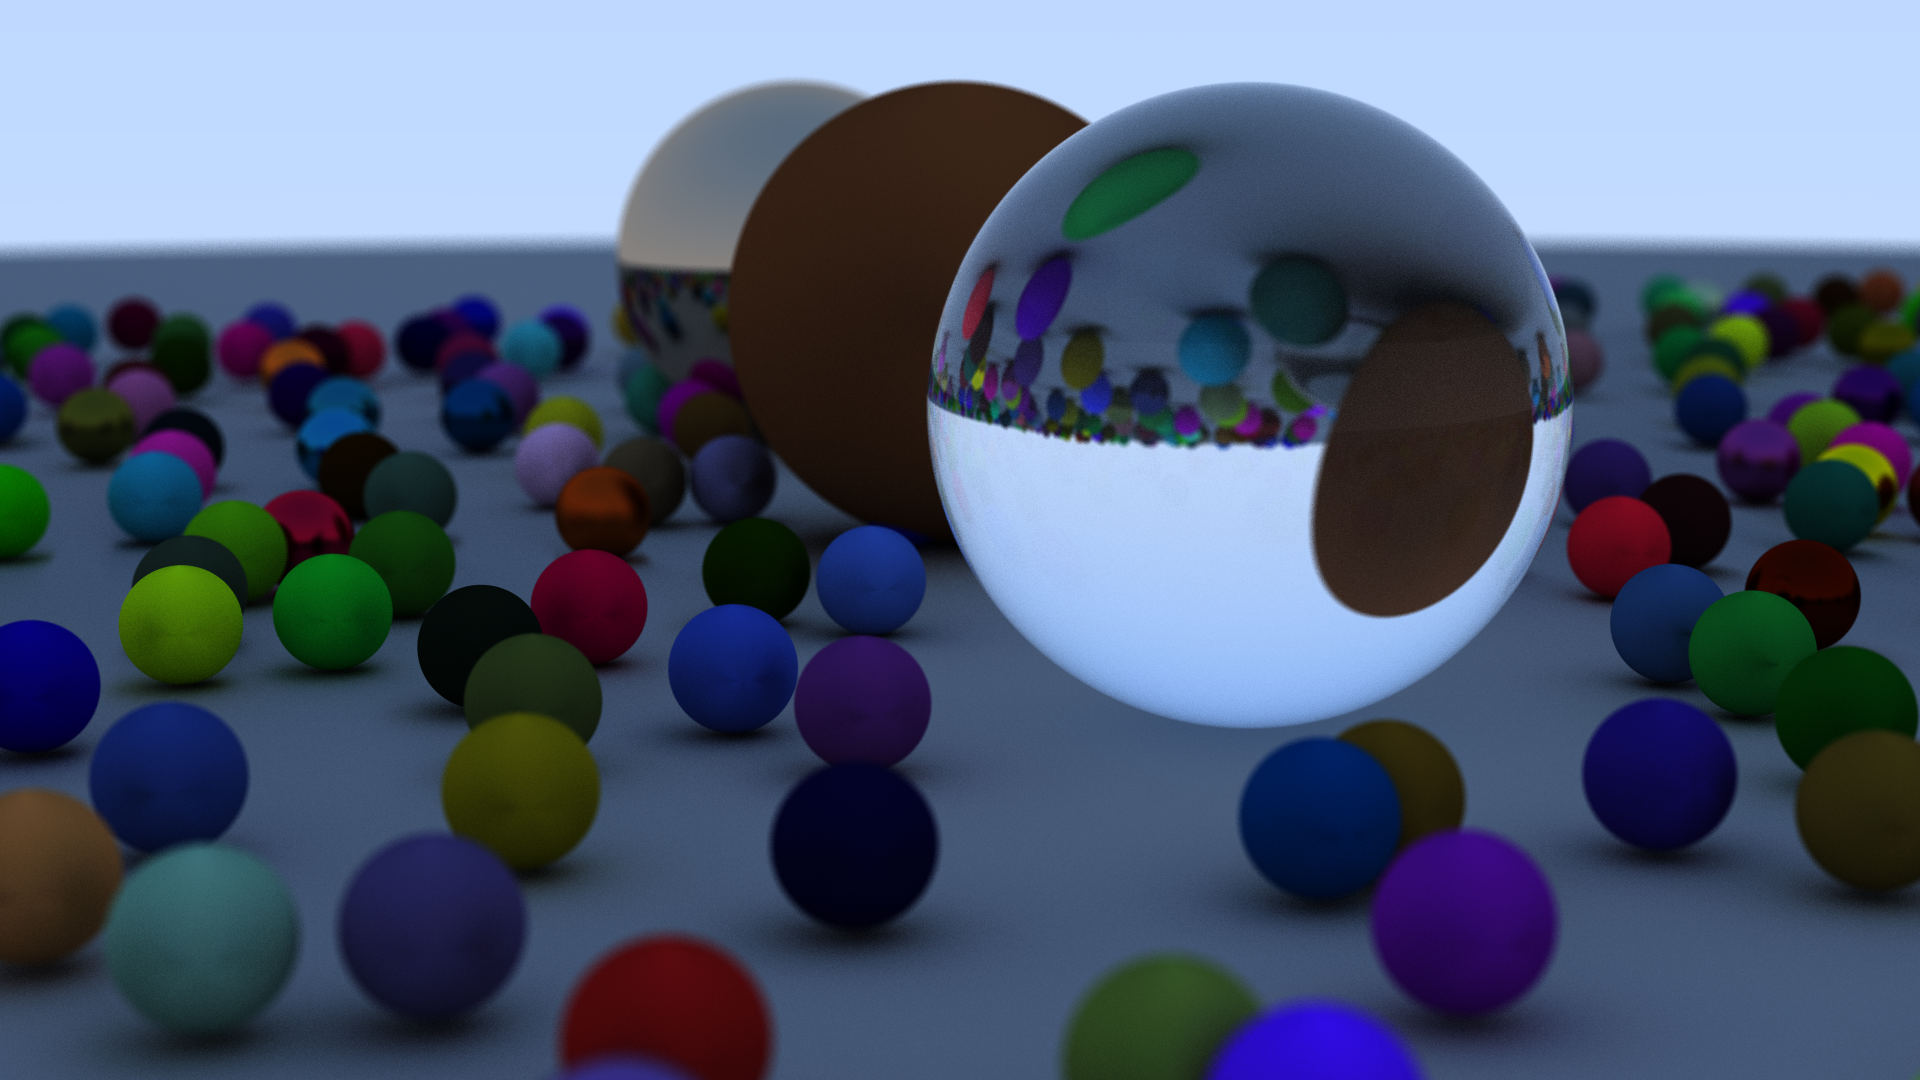
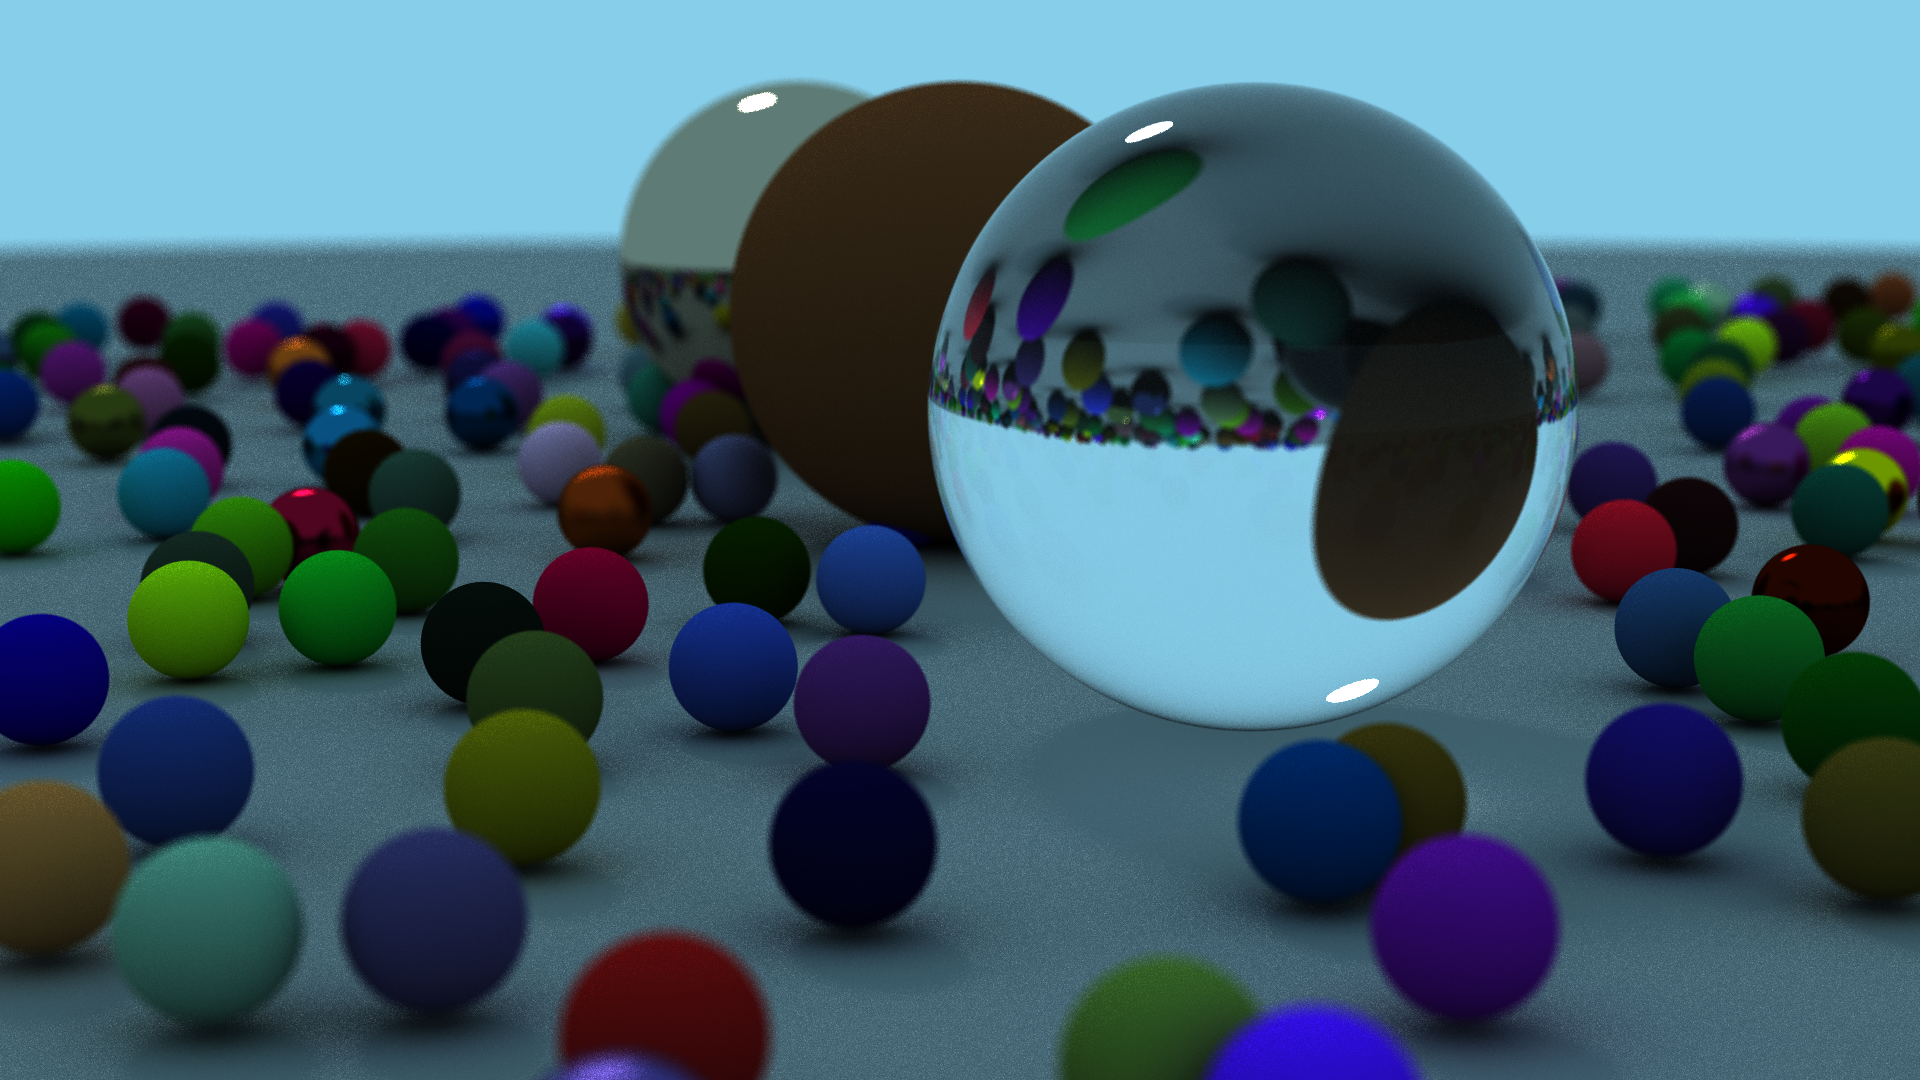
Fixed cross product error and added triangle detection

diff --git a/source/scene.cpp b/source/scene.cpp
@@ -17,7 +17,7 @@
 #include <random>
 #include <thread>
 
-image scene::render(camera const& cam, render_settings const& settings)
+image scene::render(const camera& cam, const render_settings& settings)
 {
    size_t curr_samples = 0;
    auto launch = [&] {
@@ -92,6 +92,25 @@ void scene::add_sphere(sphere&& sphere_in, std::unique_ptr<material> material)
    sphere_mats.push_back(std::move(material));
 }
 
+void scene::add_triangle(const triangle& triangle_in, std::unique_ptr<material> material)
+{
+   triangles.push_back(triangle_in);
+   triangle_mats.push_back(std::move(material));
+}
+
+void scene::add_triangle(triangle&& triangle_in, std::unique_ptr<material> material)
+{
+   triangles.push_back(std::move(triangle_in));
+   triangle_mats.push_back(std::move(material));
+}
+
+void scene::add_triangle(
+   const vec& v0, const vec& v1, const vec& v2, std::unique_ptr<material> material)
+{
+   triangles.emplace_back(v0, v1, v2);
+   triangle_mats.push_back(std::move(material));
+}
+
 void scene::set_environment_colour(const colour& environment_in) noexcept
 {
    environment = environment_in;
@@ -132,12 +151,87 @@ colour scene::radiance(
    return result / (u_sample_count * v_sample_count);
 }
 
-std::optional<hit_record> scene::intersect(ray const& ray_in) const
+std::optional<hit_record> scene::intersect(const ray& ray_in) const
 {
-   return sphere_intersect(ray_in, std::numeric_limits<double>::max());
+   constexpr double limit = std::numeric_limits<double>::infinity();
+
+   const auto sphere_record = sphere_intersect(ray_in, limit);
+   const auto triangle_record =
+      triangle_intersect(ray_in, sphere_record ? sphere_record->hit.distance : limit);
+
+   return triangle_record ? triangle_record : sphere_record;
 }
 
-std::optional<hit_record> scene::sphere_intersect(ray const& ray_in, double nearer_than) const
+std::optional<hit_record> scene::triangle_intersect(const ray& ray_in, double nearer_than) const
+{
+   double current_nearest = nearer_than;
+
+   struct nearest
+   {
+      size_t index;
+      double det;
+      double u;
+      double v;
+   };
+
+   std::optional<nearest> nearest;
+
+   constexpr double epsilon = 0.001;
+   for (size_t i = 0; i < triangles.size(); ++i)
+   {
+      const triangle& tri = triangles[i];
+      const vec p_vec = cross(ray_in.direction(), tri.v());
+      const double determinant = dot(tri.u(), p_vec);
+
+      if (std::fabs(determinant) < epsilon)
+      {
+         continue;
+      }
+
+      const double inverse_determinant = 1.0 / determinant;
+      const vec t_vec = ray_in.origin() - tri.vertex<0>();
+      const vec q_vec = cross(t_vec, tri.u());
+
+      const double u = dot(t_vec, p_vec) * inverse_determinant;
+      const double v = dot(ray_in.direction(), q_vec) * inverse_determinant;
+
+      if ((u < 0.0) | (u > 1.0) | (v < 0.0) | (u + v > 1))
+      {
+         continue;
+      }
+
+      const double t = dot(tri.v(), q_vec) * inverse_determinant;
+      if (t > epsilon && t < current_nearest)
+      {
+         current_nearest = t;
+         nearest = {.index = i, .det = determinant, .u = u, .v = v};
+      }
+   }
+
+   if (!nearest)
+   {
+      return {};
+   }
+
+   const triangle& tri = triangles[nearest->index];
+   const bool front_face = nearest->det > epsilon;
+
+   // clang-format off
+   return hit_record
+      {
+         .hit = 
+         {
+            .position = ray_in.position_along(current_nearest), 
+            .normal = front_face ? tri.normal() : -tri.normal(), 
+            .distance = current_nearest, 
+            .front_face = front_face
+         },
+         .p_mat = triangle_mats[nearest->index].get()
+      };
+   // clang-format on
+}
+
+std::optional<hit_record> scene::sphere_intersect(const ray& ray_in, double nearer_than) const
 {
    double current_nearest = nearer_than;
    std::optional<size_t> nearest_index;
@@ -172,7 +266,9 @@ std::optional<hit_record> scene::sphere_intersect(ray const& ray_in, double near
    }
 
    if (!nearest_index)
+   {
       return {};
+   }
 
    const auto hit_position = ray_in.position_along(current_nearest);
    const auto normal =

diff --git a/include/math/vec.hpp b/include/math/vec.hpp
@@ -11,10 +11,22 @@ public:
       data[2] = z;
    }
 
-   constexpr vec operator+(vec const& rhs) const noexcept { return vec(x() + rhs.x(), y() + rhs.y(), z() + rhs.z()); }
-   constexpr vec operator-(vec const& rhs) const noexcept { return vec(x() - rhs.x(), y() - rhs.y(), z() - rhs.z()); }
-   constexpr vec operator*(vec const& rhs) const noexcept { return vec(x() * rhs.x(), y() * rhs.y(), z() * rhs.z()); }
-   constexpr vec operator*(double scalar) const noexcept { return vec(x() * scalar, y() * scalar, z() * scalar); }
+   constexpr vec operator+(vec const& rhs) const noexcept
+   {
+      return vec(x() + rhs.x(), y() + rhs.y(), z() + rhs.z());
+   }
+   constexpr vec operator-(vec const& rhs) const noexcept
+   {
+      return vec(x() - rhs.x(), y() - rhs.y(), z() - rhs.z());
+   }
+   constexpr vec operator*(vec const& rhs) const noexcept
+   {
+      return vec(x() * rhs.x(), y() * rhs.y(), z() * rhs.z());
+   }
+   constexpr vec operator*(double scalar) const noexcept
+   {
+      return vec(x() * scalar, y() * scalar, z() * scalar);
+   }
    constexpr vec operator/(double scalar) const noexcept
    {
       const auto reciprocal = 1 / scalar;
@@ -66,8 +78,14 @@ public:
 
    constexpr bool operator==(vec const& rhs) const noexcept = default;
 
-   friend vec operator*(double lhs, vec const& rhs) { return vec(lhs * rhs.x(), lhs * rhs.y(), lhs * rhs.z()); }
-   friend vec operator/(double lhs, vec const& rhs) { return vec(lhs / rhs.x(), lhs / rhs.y(), lhs / rhs.z()); }
+   friend vec operator*(double lhs, vec const& rhs)
+   {
+      return vec(lhs * rhs.x(), lhs * rhs.y(), lhs * rhs.z());
+   }
+   friend vec operator/(double lhs, vec const& rhs)
+   {
+      return vec(lhs / rhs.x(), lhs / rhs.y(), lhs / rhs.z());
+   }
 
    constexpr double length_squared() const noexcept { return x() * x() + y() * y() + z() * z(); }
    double length() const noexcept;
@@ -77,7 +95,7 @@ public:
    constexpr double z() const { return data[2]; }
 
 private:
-   double data[3];
+   double data[3] = {0.0, 0.0, 0.0};
 };
 
 constexpr double dot(vec const& lhs, vec const& rhs) noexcept
@@ -88,7 +106,7 @@ constexpr vec cross(vec const& lhs, vec const& rhs) noexcept
 {
    auto x = lhs.y() * rhs.z() - lhs.z() * rhs.y();
    auto y = lhs.z() * rhs.x() - lhs.x() * rhs.z();
-   auto z = rhs.x() * rhs.y() - lhs.y() * rhs.x();
+   auto z = lhs.x() * rhs.y() - lhs.y() * rhs.x();
 
    return vec(x, y, z);
 }

diff --git a/source/main.cpp b/source/main.cpp
@@ -4,18 +4,22 @@
 #include "materials/diffuse_light.hpp"
 #include "materials/metallic.hpp"
 #include "math/details.hpp"
+#include "math/vec.hpp"
+#include "renderables/triangle.hpp"
 #include "scene.hpp"
 
 #include <iostream>
 #include <memory>
 
 void random_sphere_scene(const render_settings& settings);
+void cornell_box_scene(const render_settings& settings);
 
 int main([[maybe_unused]] int argc, [[maybe_unused]] char* argv[])
 {
    render_settings settings{};
 
    random_sphere_scene(settings);
+   // cornell_box_scene(settings);
 
    return 0;
 }
@@ -101,3 +105,50 @@ void random_sphere_scene(const render_settings& settings)
 
    img.write();
 }
+
+void cornell_box_scene(const render_settings& settings)
+{
+   vec eye{0, 2, 3};
+   vec look_at{0, 0, 0};
+
+   // clang-format off
+   camera::create_info info
+   {
+      .eye = eye,
+      .look_at = look_at,
+      .up = {0.0, 1.0, 0.0},
+      .vertical_fov = 90,
+      .aspect_ratio = (double)settings.window_width / settings.window_height,
+      .aperture = 0.0,
+      .focus_distance = 10
+   };
+   // clang-format on
+
+   camera cam{info};
+
+   scene scene{};
+   scene.set_environment_colour({});
+
+   // clang-format off
+   scene.add_sphere(
+         sphere{ .center{ -250.0, 250.0, 0.0 }, .radius = 100 },
+         std::make_unique<diffuse_light>(colour{ 10.0, 10.0, 10.0 })
+   );
+
+   scene.add_sphere(
+         sphere{ .center = {0.0, -1000.0, 0.0}, .radius = 1000 },
+         std::make_unique<diffuse>(colour{}, colour{0.1, 0.3, 0.6})
+   );
+
+   scene.add_sphere(
+         sphere { .center = {0.0, 0.5, 0.0}, .radius = 0.5 },
+         std::make_unique<diffuse>(colour{}, colour{0.6, 0.3, 0.1})
+   );
+
+   // clang-format on
+   scene.add_triangle(vec(0.5, 0.5, 1), vec(0.5, 0.5, 0), vec(1.5, 0.5, 1),
+      std::make_unique<diffuse>(colour{}, colour{.3, .6, .1}));
+
+   auto const img = scene.render(cam, settings);
+   img.write();
+};

diff --git a/include/scene.hpp b/include/scene.hpp
@@ -7,6 +7,7 @@
 #include "materials/material.hpp"
 #include "ray.hpp"
 #include "renderables/sphere.hpp"
+#include "renderables/triangle.hpp"
 
 #include <memory>
 #include <optional>
@@ -16,10 +17,13 @@
 class scene
 {
 public:
-   [[nodiscard]] image render(camera const& cam, render_settings const& settings);
+   [[nodiscard]] image render(const camera& cam, const render_settings& settings);
 
-   void add_sphere(sphere const& sphere_in, std::unique_ptr<material> p_mat);
+   void add_sphere(const sphere& sphere_in, std::unique_ptr<material> p_mat);
    void add_sphere(sphere&& sphere_in, std::unique_ptr<material> p_mat);
+   void add_triangle(const triangle& triangle_in, std::unique_ptr<material> p_mat);
+   void add_triangle(triangle&& triangle_in, std::unique_ptr<material> p_mat);
+   void add_triangle(const vec& v0, const vec& v1, const vec& v2, std::unique_ptr<material> p_mat);
 
    void set_environment_colour(const colour& environment_in) noexcept;
 
@@ -27,11 +31,16 @@ private:
    [[nodiscard]] colour radiance(
       ray const& r, size_t u_samples, size_t v_samples, size_t depth) const;
 
-   [[nodiscard]] std::optional<hit_record> intersect(ray const& r) const;
+   [[nodiscard]] std::optional<hit_record> intersect(const ray& r) const;
+   [[nodiscard]] std::optional<hit_record> triangle_intersect(
+      const ray& ray_in, double nearer_than) const;
    [[nodiscard]] std::optional<hit_record> sphere_intersect(
-      ray const& ray_in, double nearer_than) const;
+      const ray& ray_in, double nearer_than) const;
 
 private:
+   std::vector<triangle> triangles;
+   std::vector<std::unique_ptr<material>> triangle_mats;
+
    std::vector<sphere> spheres;
    std::vector<std::unique_ptr<material>> sphere_mats;
 

diff --git a/include/math/ortho_nomal_basis.hpp b/include/math/ortho_nomal_basis.hpp
@@ -12,7 +12,10 @@ public:
    constexpr const norm& y() const noexcept { return data[1]; }
    constexpr const norm& z() const noexcept { return data[2]; }
 
-   constexpr vec transform(const vec& pos) const noexcept { return x() * pos.x() + y() * pos.y() + z() * pos.z(); }
+   constexpr vec transform(const vec& pos) const noexcept
+   {
+      return x() * pos.x() + y() * pos.y() + z() * pos.z();
+   }
 
    static ortho_normal_basis from_xy(const norm& x_in, const norm& y_in);
    static ortho_normal_basis from_yx(const norm& y_in, const norm& x_in);
@@ -23,5 +26,5 @@ public:
    static ortho_normal_basis from_z(const norm& z_in);
 
 private:
-   norm data[3];
+   norm data[3] = {norm(0.0, 0.0, 0.0), norm(0.0, 0.0, 0.0), norm(0.0, 0.0, 0.0)};
 };

diff --git a/source/math/ortho_normal_basis.cpp b/source/math/ortho_normal_basis.cpp
@@ -60,14 +60,9 @@ ortho_normal_basis ortho_normal_basis::from_zy(const norm &z_in, const norm &y_i
 
 ortho_normal_basis ortho_normal_basis::from_z(const norm &z_in)
 {
-   // clang-format off
-   const norm x = normalise(
-      cross(
-         std::fabs(dot(z_in, norm(1.0, 0.0, 0.0))) > 0.999 ? 
-            norm(0.0, 1.0, 0.0) : 
-            norm(1.0, 0.0, 0.0), 
-         z_in));
-   // clang-format on
+   const norm x = normalise(cross(
+      std::fabs(dot(z_in, norm(1.0, 0.0, 0.0))) > 0.999 ? norm(0.0, 1.0, 0.0) : norm(1.0, 0.0, 0.0),
+      z_in));
    const norm y = normalise(cross(z_in, x));
 
    return ortho_normal_basis{x, y, z_in};

diff --git a/include/details/settings.hpp b/include/details/settings.hpp
@@ -6,8 +6,8 @@ struct render_settings
 {
    int window_width{1920};
    int window_height{static_cast<int>(window_width / (16.0 / 9.0))};
-   size_t u_samples{1};
-   size_t v_samples{1};
-   size_t sample_count{256 * 2};
-   size_t bounce_depth{8};
+   size_t u_samples{2};
+   size_t v_samples{2};
+   size_t sample_count{100};
+   size_t bounce_depth{4};
 };
